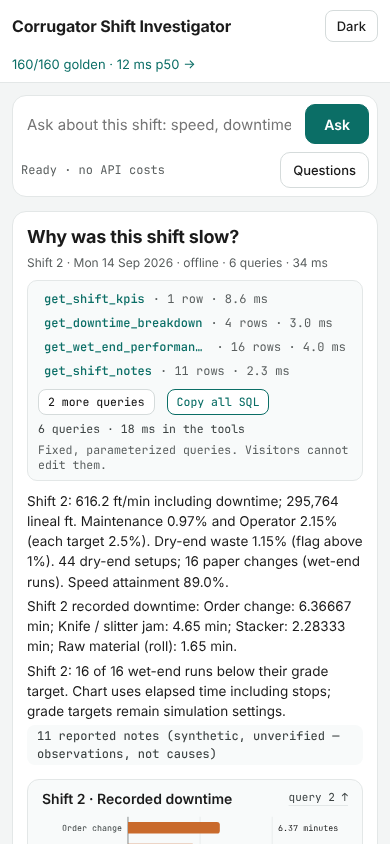
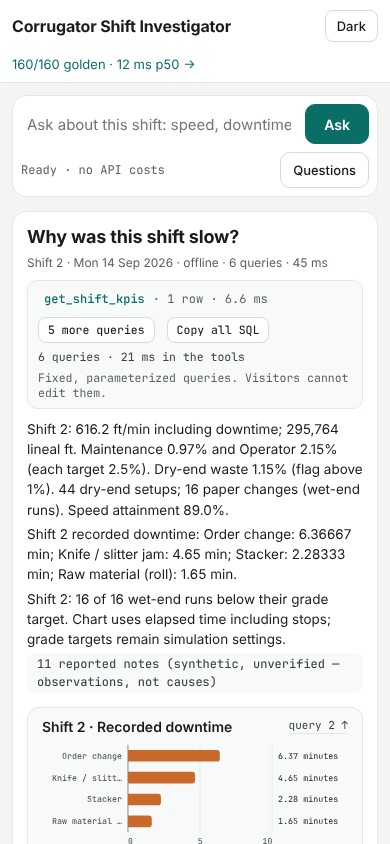
A follow-up keeps every prior: read the query after the first '?', since the server writes after= values unencoded; layout check finds the canned links; renders refreshed (#63)
Claude-Session: https://claude.ai/code/session_01MaBwFCTpeC6SpWr7ysxqqU

diff --git a/src/investigator/web/app.js b/src/investigator/web/app.js
@@ -118,15 +118,19 @@ function questionUrl(question,s=controls(),priors=conversation){
 }
 function reportUrl(s=controls(),priors=conversation){ const p=new URLSearchParams([['measure','report']]); if(s.corrupt)p.append('corrupt','1'); afterParams(p,priors); return scopeUrl(s)+'?'+p.toString(); }
 function withQuery(url,extra){ return url+(url.includes('?')?'&':'?')+extra; }
-function bareUrl(url){ const [path,query='']=url.split('?'); const p=new URLSearchParams(query); p.delete('after'); const q=p.toString(); return path+(q?'?'+q:''); }
-function priorsOf(url){ return new URLSearchParams(url.split('?')[1]||'').getAll('after'); }
+// The query is everything after the first '?': the server writes after= values unencoded, and each holds its own '?'
+// (…?measure=fpm&after=/corr/1/day/2026-09-14/shift/2?measure=overview), so splitting on every '?' loses the priors.
+function pathOf(url){ const i=url.indexOf('?'); return i<0?url:url.slice(0,i); }
+function queryOf(url){ const i=url.indexOf('?'); return new URLSearchParams(i<0?'':url.slice(i+1)); }
+function bareUrl(url){ const path=pathOf(url), p=queryOf(url); p.delete('after'); const q=p.toString(); return path+(q?'?'+q:''); }
+function priorsOf(url){ return queryOf(url).getAll('after'); }
 const MAX_AFTER=8;   // the grammar carries at most eight prior views (urls.MAX_AFTER); the agent keeps its own max_turns
 function maxPriors(){ const turns=config&&config.demo_guards&&config.demo_guards.max_turns; return Math.min(MAX_AFTER,Math.max(0,(turns||4)-1)); }
 function currentAddress(){ return nav?nav.location.pathname+nav.location.search:null; }
 // Set the controls from a canonical address; false when the address is not one.
 function applyUrl(url){
- const m=CANONICAL.exec(url.split('?')[0]); if(!m)return false;
- const query=new URLSearchParams(url.split('?')[1]||'');
+ const m=CANONICAL.exec(pathOf(url)); if(!m)return false;
+ const query=queryOf(url);
  $('period').value=GRAIN_PERIOD[m[1]]; $('day').value=m[2]; acceptedDay=m[2];
  if(m[3]){$('scope').value='shift';$('shift').value=m[3];} else $('scope').value='day';
  $('corrupt').checked=query.get('corrupt')==='1';
@@ -142,12 +146,12 @@ async function restore(url){
  renderQuestionChips(); sessionEpoch++; sessionId=null; $('api-key').value='';   // the scope may have changed under the open card: a fresh server conversation
  const held=thread.find(r=>r.state==='done'&&r.url===url);
  if(held){ held.epoch=sessionEpoch; openId=held.id; followView(url,!held.report); renderCard(); updateScope(); $('status').textContent=`${readyText()} · restored`; return true; }
- if(!new URLSearchParams(url.split('?')[1]||'').has('measure')){ openId=null; conversation=[]; renderCard(); updateScope(); $('status').textContent=readyText(); primeKpis(); return true; }
+ if(!queryOf(url).has('measure')){ openId=null; conversation=[]; renderCard(); updateScope(); $('status').textContent=readyText(); primeKpis(); return true; }
  // Nothing is disabled while this loads, so the conversation is this address's own priors from now on: a question
  // asked meanwhile, or a chip link, never carries the previous day's views (the grammar refuses those).
  conversation=priorsOf(url).slice(-maxPriors());
  $('status').textContent='Loading this address…';
- const scope=currentScope(), epoch=sessionEpoch, rec={id:++seq,question:bareUrl(url),title:bareUrl(url),scope,answered:null,mode:'offline',report:new URLSearchParams(url.split('?')[1]||'').get('measure')==='report',corrupt:$('corrupt').checked,epoch,state:'pending',t0:clock(),ms:null,result:null,error:null,note:null,url:null};
+ const scope=currentScope(), epoch=sessionEpoch, rec={id:++seq,question:bareUrl(url),title:bareUrl(url),scope,answered:null,mode:'offline',report:queryOf(url).get('measure')==='report',corrupt:$('corrupt').checked,epoch,state:'pending',t0:clock(),ms:null,result:null,error:null,note:null,url:null};
  thread.push(rec); openId=rec.id; renderCard(); updateScope();
  try{
   const response=await fetch(url,{headers:{Accept:'application/json'}});
@@ -809,7 +813,7 @@ async function init(){
  // The golden-set score of the last tracked run, where people look: one line linking to /evals (issue #26).
  if(config.evals){$('evals-foot').hidden=false;if(config.evals.badge){$('evals-badge').textContent=config.evals.badge+' →';$('evals-badge').title=`Golden evals, last tracked run ${config.evals.ran_at||''}${config.evals.commit?' at commit '+config.evals.commit:''}. Browse every case and run it yourself.`;$('evals-badge').hidden=false;}}
  const address=currentAddress();
- if(!(address&&CANONICAL.test(address.split('?')[0])&&await restore(address))){pushAddress(scopeUrl(),true);primeKpis();}
+ if(!(address&&CANONICAL.test(pathOf(address))&&await restore(address))){pushAddress(scopeUrl(),true);primeKpis();}
  const context=document.modelContext;
  if(context?.registerTool){const lifecycle=new AbortController();window.addEventListener('pagehide',()=>lifecycle.abort(),{once:true});await context.registerTool({name:'investigate_selected_shift',description:'Run an offline investigation for the selected day and update the visible answer, charts and trace.',inputSchema:{type:'object',properties:{question:{type:'string',maxLength:2000}},required:['question'],additionalProperties:false},annotations:{readOnlyHint:false,untrustedContentHint:true},execute:async input=>{if($('mode').value!=='offline')throw new Error('Browser question tool is available only for offline investigations');if(!input||typeof input.question!=='string'||Object.keys(input).some(k=>k!=='question')||input.question.length>2000)throw new Error('Invalid question');$('question').value=input.question;return ask(input.question,{mode:'offline'});}},{signal:lifecycle.signal});}
  }catch(error){$('status').textContent=error.message;}
